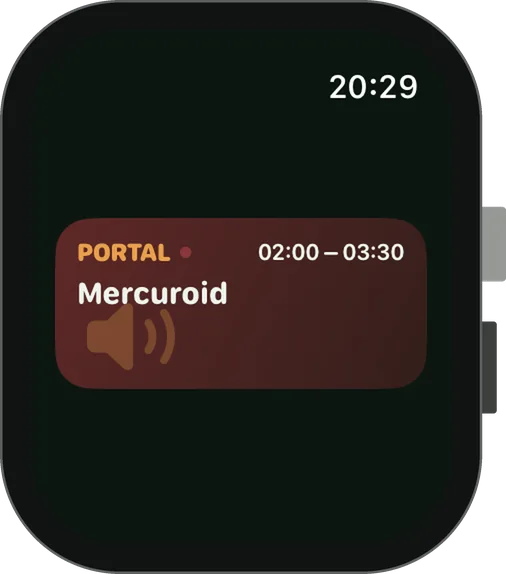
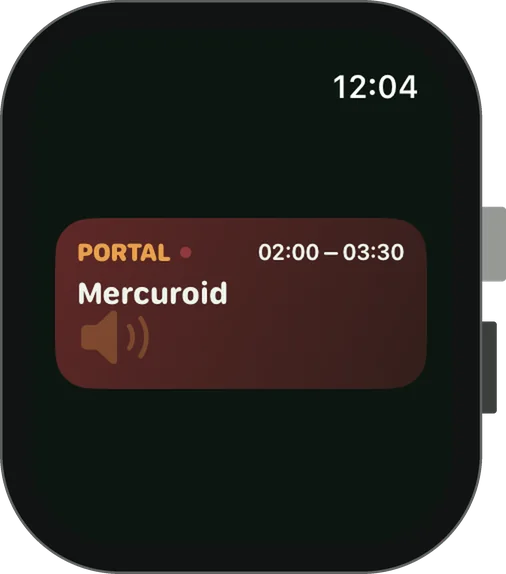
chore(web): regenerate /app landing images from 1.2 screenshots
Rebuild the framed iPhone/watch shots, hero and OG card on the /app showcase
from the refreshed App Store screenshots (performer names + per-type icons),
and bump LANDING_IMG_V to cache-bust the stable filenames.

Changed region(s): [[0.1482, 0.5331, 0.3557, 0.6516], [0.6522, 0.1185, 0.83, 0.1777]]

diff --git a/pwa/lib/landing-version.ts b/pwa/lib/landing-version.ts
@@ -1,3 +1,3 @@
 // AUTO-GENERATED by pwa/scripts/build_landing_images.py — cache-busts the
 // framed landing images (their filenames are stable) on every regeneration.
-export const LANDING_IMG_V = "1782498720";
+export const LANDING_IMG_V = "1782815056";
